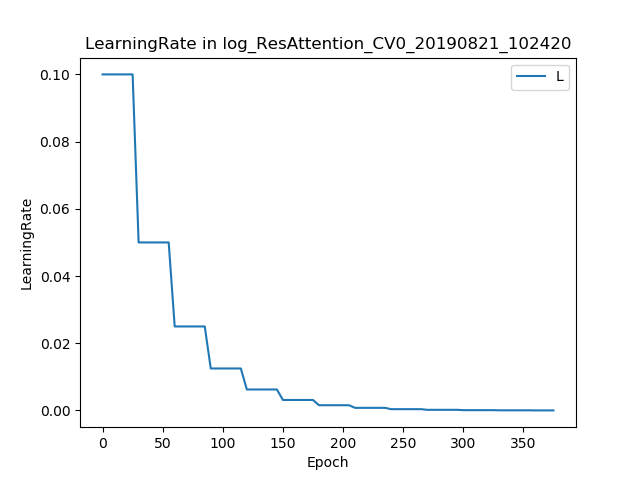
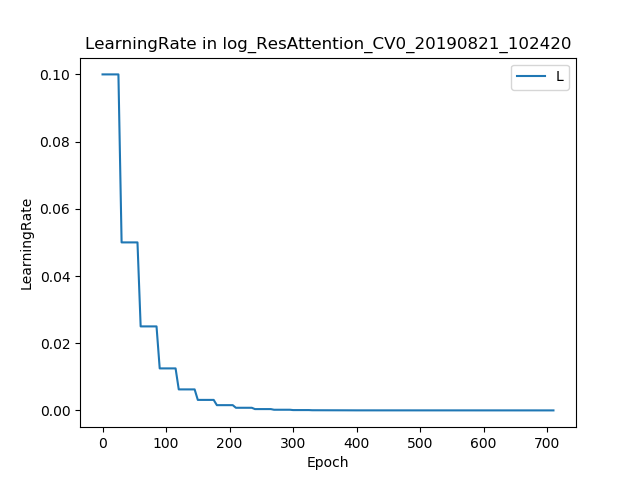
update log

diff --git a/DeformConv2d.py b/DeformConv2d.py
@@ -1,0 +1,153 @@
+
+"""
+Credit: https://github.com/4uiiurz1/pytorch-deform-conv-v2\
+Paper: Deformable ConvNets v2: More Deformable, Better Results
+Link: https://arxiv.org/abs/1811.11168
+
+Version time: April 19th, 2019
+
+"""
+
+import torch
+from torch import nn
+
+
+class DeformConv2d(nn.Module):
+    def __init__(self, inc, outc, kernel_size=3, padding=1, stride=1, bias=None, modulation=False):
+        """
+        Args:
+            modulation (bool, optional): If True, Modulated Defomable Convolution (Deformable ConvNets v2).
+        """
+        super(DeformConv2d, self).__init__()
+        self.kernel_size = kernel_size
+        self.padding = padding
+        self.stride = stride
+        self.zero_padding = nn.ZeroPad2d(padding)
+        self.conv = nn.Conv2d(inc, outc, kernel_size=kernel_size, stride=kernel_size, bias=bias)
+
+        self.p_conv = nn.Conv2d(inc, 2*kernel_size*kernel_size, kernel_size=3, padding=1, stride=stride)
+        nn.init.constant_(self.p_conv.weight, 0)
+        self.p_conv.register_backward_hook(self._set_lr)
+
+        self.modulation = modulation
+        if modulation:
+            self.m_conv = nn.Conv2d(inc, kernel_size*kernel_size, kernel_size=3, padding=1, stride=stride)
+            nn.init.constant_(self.m_conv.weight, 0)
+            self.m_conv.register_backward_hook(self._set_lr)
+
+    @staticmethod
+    def _set_lr(module, grad_input, grad_output):
+        grad_input = (grad_input[i] * 0.1 for i in range(len(grad_input)))
+        grad_output = (grad_output[i] * 0.1 for i in range(len(grad_output)))
+
+    def forward(self, x):
+        offset = self.p_conv(x)
+        if self.modulation:
+            m = torch.sigmoid(self.m_conv(x))
+
+        dtype = offset.data.type()
+        ks = self.kernel_size
+        N = offset.size(1) // 2
+
+        if self.padding:
+            x = self.zero_padding(x)
+
+        # (b, 2N, h, w)
+        p = self._get_p(offset, dtype)
+
+        # (b, h, w, 2N)
+        p = p.contiguous().permute(0, 2, 3, 1)
+        q_lt = p.detach().floor()
+        q_rb = q_lt + 1
+
+        q_lt = torch.cat([torch.clamp(q_lt[..., :N], 0, x.size(2)-1), torch.clamp(q_lt[..., N:], 0, x.size(3)-1)], dim=-1).long()
+        q_rb = torch.cat([torch.clamp(q_rb[..., :N], 0, x.size(2)-1), torch.clamp(q_rb[..., N:], 0, x.size(3)-1)], dim=-1).long()
+        q_lb = torch.cat([q_lt[..., :N], q_rb[..., N:]], dim=-1)
+        q_rt = torch.cat([q_rb[..., :N], q_lt[..., N:]], dim=-1)
+
+        # clip p
+        p = torch.cat([torch.clamp(p[..., :N], 0, x.size(2)-1), torch.clamp(p[..., N:], 0, x.size(3)-1)], dim=-1)
+
+        # bilinear kernel (b, h, w, N)
+        g_lt = (1 + (q_lt[..., :N].type_as(p) - p[..., :N])) * (1 + (q_lt[..., N:].type_as(p) - p[..., N:]))
+        g_rb = (1 - (q_rb[..., :N].type_as(p) - p[..., :N])) * (1 - (q_rb[..., N:].type_as(p) - p[..., N:]))
+        g_lb = (1 + (q_lb[..., :N].type_as(p) - p[..., :N])) * (1 - (q_lb[..., N:].type_as(p) - p[..., N:]))
+        g_rt = (1 - (q_rt[..., :N].type_as(p) - p[..., :N])) * (1 + (q_rt[..., N:].type_as(p) - p[..., N:]))
+
+        # (b, c, h, w, N)
+        x_q_lt = self._get_x_q(x, q_lt, N)
+        x_q_rb = self._get_x_q(x, q_rb, N)
+        x_q_lb = self._get_x_q(x, q_lb, N)
+        x_q_rt = self._get_x_q(x, q_rt, N)
+
+        # (b, c, h, w, N)
+        x_offset = g_lt.unsqueeze(dim=1) * x_q_lt + \
+                   g_rb.unsqueeze(dim=1) * x_q_rb + \
+                   g_lb.unsqueeze(dim=1) * x_q_lb + \
+                   g_rt.unsqueeze(dim=1) * x_q_rt
+
+        # modulation
+        if self.modulation:
+            m = m.contiguous().permute(0, 2, 3, 1)
+            m = m.unsqueeze(dim=1)
+            m = torch.cat([m for _ in range(x_offset.size(1))], dim=1)
+            x_offset *= m
+
+        x_offset = self._reshape_x_offset(x_offset, ks)
+        out = self.conv(x_offset)
+
+        return out
+
+    def _get_p_n(self, N, dtype):
+        p_n_x, p_n_y = torch.meshgrid(
+            torch.arange(-(self.kernel_size-1)//2, (self.kernel_size-1)//2+1),
+            torch.arange(-(self.kernel_size-1)//2, (self.kernel_size-1)//2+1))
+        # (2N, 1)
+        p_n = torch.cat([torch.flatten(p_n_x), torch.flatten(p_n_y)], 0)
+        p_n = p_n.view(1, 2*N, 1, 1).type(dtype)
+
+        return p_n
+
+    def _get_p_0(self, h, w, N, dtype):
+        p_0_x, p_0_y = torch.meshgrid(
+            torch.arange(1, h*self.stride+1, self.stride),
+            torch.arange(1, w*self.stride+1, self.stride))
+        p_0_x = torch.flatten(p_0_x).view(1, 1, h, w).repeat(1, N, 1, 1)
+        p_0_y = torch.flatten(p_0_y).view(1, 1, h, w).repeat(1, N, 1, 1)
+        p_0 = torch.cat([p_0_x, p_0_y], 1).type(dtype)
+
+        return p_0
+
+    def _get_p(self, offset, dtype):
+        N, h, w = offset.size(1)//2, offset.size(2), offset.size(3)
+
+        # (1, 2N, 1, 1)
+        p_n = self._get_p_n(N, dtype)
+        # (1, 2N, h, w)
+        p_0 = self._get_p_0(h, w, N, dtype)
+        p = p_0 + p_n + offset
+        return p
+
+    def _get_x_q(self, x, q, N):
+        b, h, w, _ = q.size()
+        padded_w = x.size(3)
+        c = x.size(1)
+        # (b, c, h*w)
+        x = x.contiguous().view(b, c, -1)
+
+        # (b, h, w, N)
+        index = q[..., :N]*padded_w + q[..., N:]  # offset_x*w + offset_y
+        # (b, c, h*w*N)
+        index = index.contiguous().unsqueeze(dim=1).expand(-1, c, -1, -1, -1).contiguous().view(b, c, -1)
+
+        x_offset = x.gather(dim=-1, index=index).contiguous().view(b, c, h, w, N)
+
+        return x_offset
+
+    @staticmethod
+    def _reshape_x_offset(x_offset, ks):
+        b, c, h, w, N = x_offset.size()
+        x_offset = torch.cat([x_offset[..., s:s+ks].contiguous().view(b, c, h, w*ks) for s in range(0, N, ks)], dim=-1)
+        x_offset = x_offset.contiguous().view(b, c, h*ks, w*ks)
+
+        return x_offset

diff --git a/TrainResAttentionNet.py b/TrainResAttentionNet.py
@@ -106,7 +106,9 @@ Major program changes:
                     16:29pm:
                     B add modulation factor in the STN
             23  Aug 21th, 10:16, 2019
-                    A delete the inductive bias in the final FC.        
+                    A delete the inductive bias in the final FC.  
+                    15:47 pm
+                    B change LRscheduler into MultiStepLR;      
             
 Discarded changes:                  
                   
@@ -217,7 +219,8 @@ def main():
     #optimizer = optim.SGD(net.parameters(), lr=0.00001, momentum=0.9)
     net.setOptimizer(optimizer)
 
-    lrScheduler = optim.lr_scheduler.StepLR(optimizer, step_size=30, gamma=0.5)
+    # lrScheduler = optim.lr_scheduler.StepLR(optimizer, step_size=30, gamma=0.5)
+    lrScheduler = optim.lr_scheduler.MultiStepLR(optimizer, milestones=[150, 300, 500, 800], gamma=0.5)
 
     # Load network
     netMgr = NetMgr(net, netPath, device)
